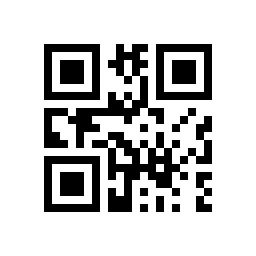
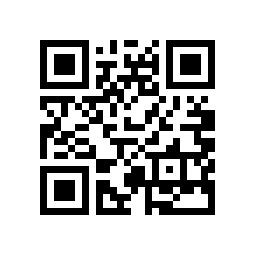
fixed code

Changed region(s): [[0.1562, 0.1562, 0.8438, 0.8438]]

diff --git a/src/dev/stefifox/qr/QR_Generator.java b/src/dev/stefifox/qr/QR_Generator.java
@@ -11,16 +11,18 @@ import com.google.zxing.WriterException;
 import com.google.zxing.common.BitMatrix;
 import com.google.zxing.qrcode.QRCodeWriter;
 
-
 public class QR_Generator {
+	
+	private QRCodeWriter writer;
+	private BufferedImage image;
 
 	public QR_Generator(String Text, int width, int  height) {
 	    
-		QRCodeWriter writer = new QRCodeWriter();
+		writer = new QRCodeWriter();
 	    
-	    BufferedImage image = new BufferedImage(width, height, BufferedImage.TYPE_INT_RGB); // create an empty image
-	    int white = 255 << 16 | 255 << 8 | 255;
-	    int black = 0;
+		image = new BufferedImage(width, height, BufferedImage.TYPE_INT_RGB); // create an empty image
+	    int white = 0xffffff;
+	    int black = 0x000000;
 	    try {
 	        BitMatrix bitMatrix = writer.encode(Text, BarcodeFormat.QR_CODE, width, height);
 	        for (int i = 0; i < width; i++) {

diff --git a/src/dev/stefifox/qr/SaveSettings.java b/src/dev/stefifox/qr/SaveSettings.java
@@ -10,7 +10,6 @@ public class SaveSettings {
 	
 	private static int StartWitdh;
 	private static int StartHeight;
-	private static String User;
 	
 	private static FileOutputStream Output1;
 	public static PrintStream Print;
@@ -20,7 +19,6 @@ public class SaveSettings {
 		StartWitdh = Main.Width;
 		StartHeight = Main.Height;
 
-			
 		//Verify if the file existing		
 		if(!new File(Main.Default_Folder + "settings.set").exists()){
 			New();
@@ -68,8 +66,7 @@ public class SaveSettings {
 		System.out.println("New width: " +  StartWitdh);
 		Print.println(StartHeight);
 		System.out.println("New height: " +  StartHeight);
-		Print.println(User);
-			
+
 		try {
 			Output1.close();
 		} catch (IOException e) {

diff --git a/src/dev/stefifox/qr/LoadSettings.java b/src/dev/stefifox/qr/LoadSettings.java
@@ -30,7 +30,8 @@ public class LoadSettings {
 			StartWitdh = Integer.parseInt(BufferRead.readLine());
 			System.out.println("Witdh: " + StartWitdh);
 			StartHeight = Integer.parseInt(BufferRead.readLine());
-			System.out.println("Height: " + StartHeight);;
+			System.out.println("Height: " + StartHeight);
+			
 		}catch (IOException e) {
 			e.printStackTrace();
 		}
@@ -51,7 +52,7 @@ public class LoadSettings {
 		
 		Main.Width = StartWitdh;
 		Main.Height = StartHeight;
-		
+
 	}
 	
 }
